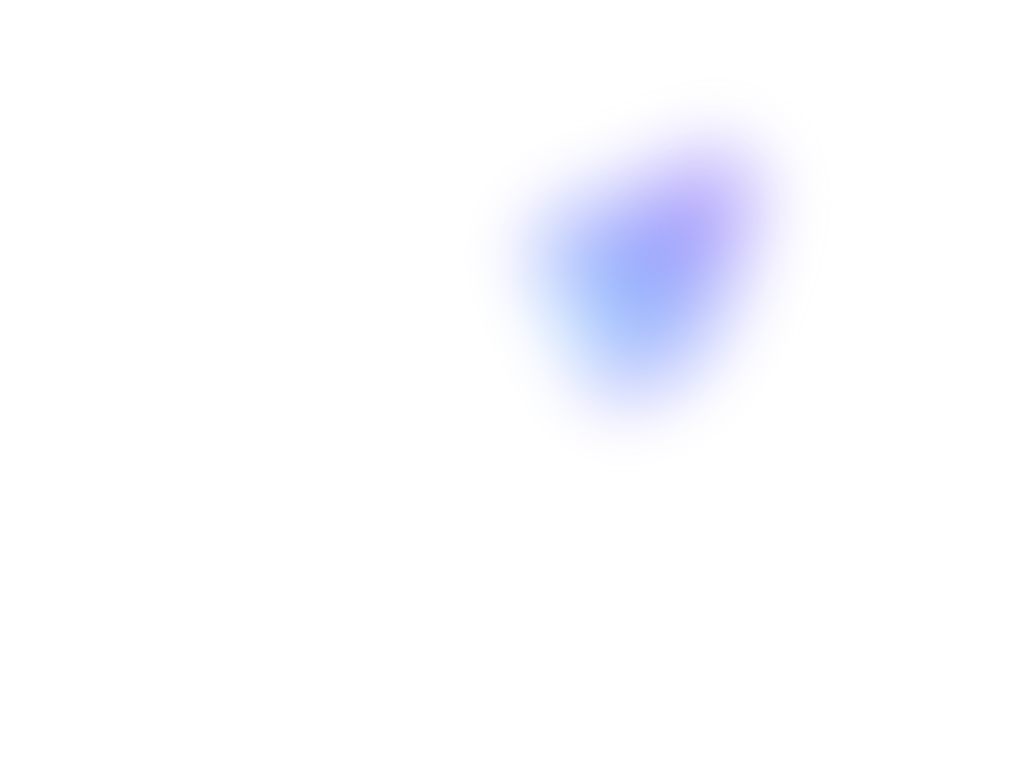
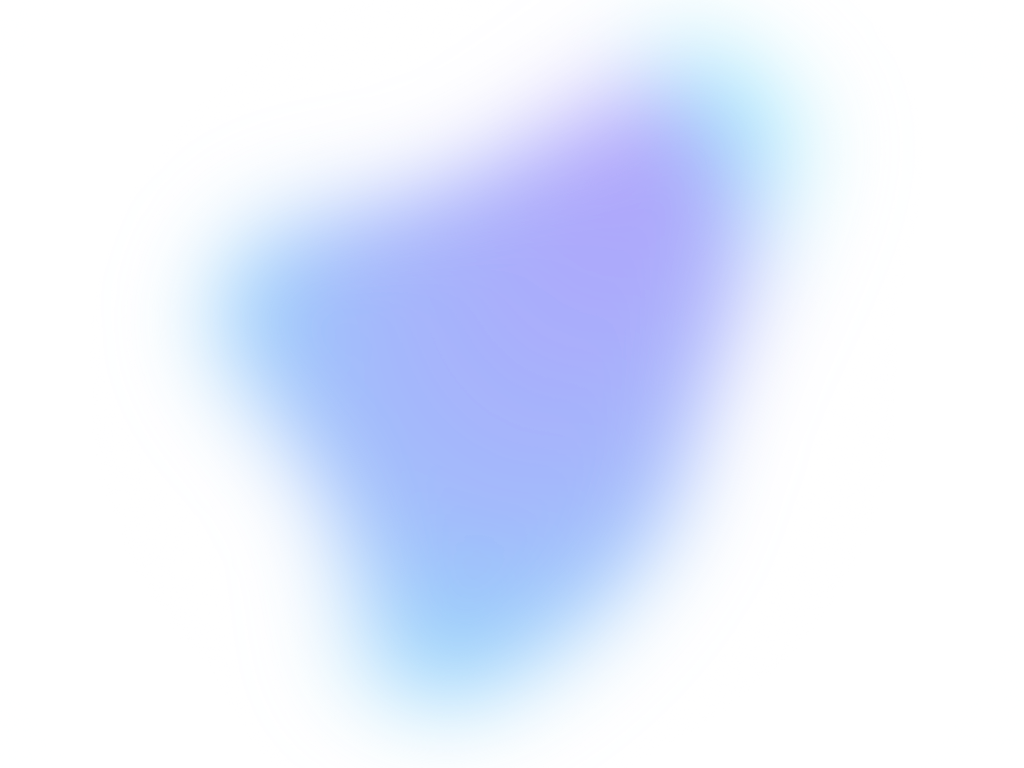
some imprevements

diff --git a/src/components/Index/Pricing.tsx b/src/components/Index/Pricing.tsx
@@ -2,7 +2,7 @@ import React, { Children } from 'react';
 import tw from 'twin.macro';
 import styled from 'styled-components';
 
-const StyledSection = tw.section`md:px-12 lg:px-6 grid grid-cols-1 gap-12 lg:grid-cols-2 xl:grid-cols-3`;
+const StyledSection = tw.section`md:px-12 mt-16 lg:px-6 grid grid-cols-1 gap-12 lg:grid-cols-2 xl:grid-cols-3`;
 const TextContainer = tw.div`flex flex-col gap-6 lg:pt-32`;
 const Title = tw.div`text-3xl text-center xl:text-left`;
 const SubTitle = styled.h3`
@@ -11,15 +11,62 @@ const SubTitle = styled.h3`
 `;
 
 interface IPricingItem {
-  type: 'primary' | 'secondary';
+  variant: 'primary' | 'secondary';
   title: string;
   subtitle: string;
   price: string;
   children: React.ReactNode;
 }
 
+interface IVariant {
+  variant: IPricingItem['variant']
+}
+
+const PricingContainer = styled.div<IVariant>(
+  ({ variant }) => [
+    tw`pt-10 pb-4 border rounded-lg`,
+    variant === 'primary'
+      ? tw`bg-primary`
+      : tw`bg-white`,
+  ]
+);
+const TitleContainer = styled.div<IVariant>(
+  ({ variant }) => [
+    tw`flex justify-center text-center text-2xl mb-6`,
+    variant === 'primary'
+      ? tw`text-white`
+      : tw`text-black`,
+  ]
+);
+const Text = styled.div<IVariant>(
+  ({ variant }) => [
+    tw`flex justify-center text-center`,
+    variant === 'primary'
+      ? tw`text-gray-100`
+      : tw`text-gray-500`,
+  ]
+);
+const Price = styled.span<IVariant>(
+  ({ variant }) => [
+    tw`text-5xl font-bold`,
+    variant === 'primary'
+      ? tw`text-white`
+      : tw`text-black`,
+  ]
+);
+const Button = styled.button<IVariant>(
+  ({ variant }) => [
+    tw`rounded-lg text-lg py-6 px-4 md:px-12 transition hover:-translate-y-1 focus:outline-none focus:ring-4`,
+    variant === 'primary'
+      ? tw`bg-white text-primary`
+      : tw`bg-primary text-white hover:brightness-150`,
+  ]
+);
+const PriceContainer = tw.div`flex justify-center items-end gap-2`;
+const ButtonContainer = tw.div`flex flex-col justify-center px-16 mt-8`;
+
 const PricingItem = ({
-  type,
+  variant,
   title,
   subtitle,
   price,
@@ -27,52 +74,19 @@ const PricingItem = ({
 }: IPricingItem) => {
   const arrayChildren = Children.toArray(children);
 
-  const PricingContainer = styled.div(
-    tw`pt-10 pb-4 border rounded-lg`,
-    type === 'primary'
-      ? tw`bg-primary`
-      : tw`bg-white`
-  );
-  const TitleContainer = styled.div(
-    tw`flex justify-center text-center text-2xl mb-6`,
-    type === 'primary'
-      ? tw`text-white`
-      : tw`text-black`
-  );
-  const Text = styled.div(
-    tw`flex justify-center text-center`,
-    type === 'primary'
-      ? tw`text-gray-100`
-      : tw`text-gray-500`
-  );
-  const PriceContainer = tw.div`flex justify-center items-end gap-2`;
-  const Price = styled.span(
-    tw`text-5xl font-bold`,
-    type === 'primary'
-      ? tw`text-white`
-      : tw`text-black`
-  );
-  const ButtonContainer = tw.div`flex flex-col justify-center px-16 mt-8`;
-  const Button = styled.button(
-    tw`rounded-lg text-lg py-6 px-4 md:px-12 transition hover:-translate-y-1 focus:outline-none focus:ring-4`,
-    type === 'primary'
-      ? tw`bg-white text-primary`
-      : tw`bg-primary text-white hover:brightness-150`
-  );
-
   return (
-    <PricingContainer>
+    <PricingContainer variant={variant}>
       <div className={'flex flex-col gap-6'}>
         <div className={'px-16'}>
-          <TitleContainer>{title}</TitleContainer>
+          <TitleContainer variant={variant}>{title}</TitleContainer>
           <div className={'h-28 lg:h-36 xl:h-20'}>
-            <Text>{subtitle}</Text>
+            <Text variant={variant}>{subtitle}</Text>
           </div>
           <PriceContainer>
-            <Price>
+            <Price variant={variant}>
               {price}zł
             </Price>
-            <Text>/Miesięcznie</Text>
+            <Text variant={variant}>/Miesięcznie</Text>
           </PriceContainer>
         </div>
 
@@ -82,7 +96,7 @@ const PricingItem = ({
           {Children.map(arrayChildren, (child, index) => {
             return (
               <div className={'px-16 my-6 lg:my-4'}>
-                <Text key={index}>
+                <Text variant={variant} key={index}>
                   {child}
                 </Text>
               </div>
@@ -92,7 +106,7 @@ const PricingItem = ({
       </div>
 
       <ButtonContainer>
-        <Button>
+        <Button variant={variant}>
           Zarejestruj się za darmo
         </Button>
       </ButtonContainer>
@@ -114,7 +128,7 @@ const Pricing = () => {
       </TextContainer>
 
       <PricingItem
-        type={'secondary'}
+        variant={'secondary'}
         title={'Plan Basic'}
         subtitle={'Dla mniejszych przedsiębiorstw'}
         price={'199'}
@@ -125,7 +139,7 @@ const Pricing = () => {
         <p>1 godzina wsparcia eksperta w budowaniu strategii marketingowej</p>
       </PricingItem>
       <PricingItem
-        type={'primary'}
+        variant={'primary'}
         title={'Plan Premium'}
         subtitle={'Dla szybko rozwijających się i średnich przedsiębiorstw'}
         price={'399'}

diff --git a/src/components/Index/Statistics.tsx b/src/components/Index/Statistics.tsx
@@ -1,8 +1,10 @@
 import tw from 'twin.macro';
 import styled from 'styled-components';
+import Image from 'next/image';
 
 import { SubTitleLeftShadow } from './styled';
 import { StyledCtaButton } from 'components/Common/styled';
+import { STATIC } from 'constants/index';
 
 const StyledSection = tw.section`px-12 lg:px-36 grid grid-cols-1 md:grid-cols-2 gap-10 xl:gap-36 relative`;
 const StatsContainer = tw.div`flex flex-col gap-0.5 relative`;
@@ -23,37 +25,37 @@ const Statistics = () => {
         <StatsContainer>
           <StatsItem className={'rounded-t-lg'}>
             <TitleLeft>
-            10,5 mld zł
+              10,5 mld zł
             </TitleLeft>
             <SubTitleLeftShadow>
-            wartość rynku reklamowego w Polsce w 2021 roku.
+              wartość rynku reklamowego w Polsce w 2021 roku.
             </SubTitleLeftShadow>
           </StatsItem>
           <StatsItem>
             <TitleLeft>
-            803,6 mln zł
+              803,6 mln zł
             </TitleLeft>
             <SubTitleLeftShadow>
-            o tyle wzrosły wydatki na reklamę w Internecie w 2021 r.
+              o tyle wzrosły wydatki na reklamę w Internecie w 2021 r.
             </SubTitleLeftShadow>
           </StatsItem>
           <StatsItem className={'rounded-b-lg'}>
             <TitleLeft>
-            16%
+              16%
             </TitleLeft>
             <SubTitleLeftShadow>
-            o tyle wzrosła wartość rynku reklamowego w Polsce w ciągu 10 lat.
+              o tyle wzrosła wartość rynku reklamowego w Polsce w ciągu 10 lat.
             </SubTitleLeftShadow>
           </StatsItem>
         </StatsContainer>
-        {/*<Image*/}
-        {/*  fill*/}
-        {/*  priority*/}
-        {/*  src={`${STATIC.STAIN_2}`}*/}
-        {/*  alt="stain"*/}
-        {/*  className={'absolute !top-16 z-0'}*/}
-        {/*  style={{ objectFit: 'cover', transform: 'scale(3)' }}*/}
-        {/*/>*/}
+        <div className={'absolute h-full w-full left-0 top-0'}>
+          <Image
+            fill
+            src={`${STATIC.STAIN_2}`}
+            alt="stain"
+            style={{ objectFit: 'contain' }}
+          />
+        </div>
       </div>
 
       <TextContainer>

diff --git a/src/components/Index/Top/TopText.tsx b/src/components/Index/Top/TopText.tsx
@@ -1,0 +1,43 @@
+import { AiFillCheckCircle } from 'react-icons/ai';
+
+import { SubTitleLeftShadow, TitleLeft } from 'components/Index/styled';
+import { twConfig } from 'helpers/tailwind';
+import { SearchInput } from 'components/Common/styled';
+
+const TopText = () => {
+  return (
+    <div className="flex flex-col justify-center gap-10 md:min-h-[40rem]">
+      <TitleLeft>
+          Zatrudnij specjalistów marketingu, bez ryzyka
+      </TitleLeft>
+      <SubTitleLeftShadow>
+          Adsbridge.pl pomoże Ci znaleźć, zatrudnić i zarządzać zweryfikowanymi
+          specjalistami ds. marketingu i reklamy
+      </SubTitleLeftShadow>
+
+      <SearchInput
+        label={'ZNAJDŹ SPECJALISTĘ'}
+        placeholder={'Wyszukaj Specjalista Facebook Ads etc.'}
+      />
+
+      <div className="flex gap-3 text-xs">
+        <span className="flex items-center gap-1">
+          <AiFillCheckCircle
+            size={20}
+            color={twConfig?.theme?.colors?.secondary as string}
+          />
+            Nie znajdziesz kandydata? Nie płacisz.
+        </span>
+        <span className="flex items-center gap-1">
+          <AiFillCheckCircle
+            size={20}
+            color={twConfig?.theme?.colors?.secondary as string}
+          />
+            60 dniowa gwarancja
+        </span>
+      </div>
+    </div>
+  );
+};
+
+export default TopText;

diff --git a/src/pages/index.tsx b/src/pages/index.tsx
@@ -1,3 +1,4 @@
+import React from 'react';
 import type { Variants } from 'framer-motion';
 import { motion } from 'framer-motion';
 import tw from 'twin.macro';
@@ -7,8 +8,8 @@ import type { NextPage } from 'next';
 import Layout from 'components/Common/Layout';
 import Footer from 'components/Common/Footer';
 import Top from 'components/Index/Top';
-import HowItWorks from 'components/Index/HowItWorks';
 import Statistics from 'components/Index/Statistics';
+import HowItWorks from 'components/Index/HowItWorks';
 import Video from 'components/Index/Video';
 import ExpertSocialMedia from 'components/Index/ExpertSocialMedia';
 import Pricing from 'components/Index/Pricing';
@@ -38,14 +39,7 @@ export const Motion = ({ children }: { children: React.ReactNode }) => (
   </motion.div>
 );
 
-export const Main = tw.main`
-  min-h-screen
-  p-8
-  flex
-  flex-col
-  gap-36
-  md:gap-24
-`;
+export const Main = tw.main`min-h-screen p-8 flex flex-col`;
 
 const HomePage: NextPage = () => {
   return (

diff --git a/src/components/Index/Video.tsx b/src/components/Index/Video.tsx
@@ -4,7 +4,7 @@ import { STATIC } from 'constants/index';
 import styled from 'styled-components';
 import { StyledCtaButton } from '../Common/styled';
 
-const StyledSection = tw.section`md:px-6 grid grid-cols-1 xl:grid-cols-2 gap-10`;
+const StyledSection = tw.section`md:px-6 mt-16 grid grid-cols-1 xl:grid-cols-2 gap-10`;
 const TextContainer = tw.div`flex flex-col text-center justify-center gap-6`;
 const Title = tw.h1`text-5xl tracking-tight xl:text-left text-gray-900 text-center`;
 
@@ -37,6 +37,8 @@ const Video = () => {
         <StyledVideo
           title="how we verify"
           loop
+          // @ts-ignore
+          playsinline
           autoPlay
           muted
         >

diff --git a/src/components/Index/Top/TopImage.tsx b/src/components/Index/Top/TopImage.tsx
@@ -1,0 +1,26 @@
+import Image from 'next/image';
+
+import { STATIC } from 'constants/index';
+
+const TopImage = () => {
+  return (
+    <div className='flex justify-center relative h-96 md:h-auto'>
+      <Image
+        fill
+        priority
+        src={`${STATIC.STAIN_1}`}
+        alt="stain"
+        style={{ objectFit: 'contain' }}
+      />
+      <Image
+        fill
+        priority
+        src={`${STATIC.ROB_KATARZYNA}`}
+        alt="how it works"
+        style={{ objectFit: 'contain' }}
+      />
+    </div>
+  );
+};
+
+export default TopImage;

diff --git a/src/components/Index/ExpertSocialMedia.tsx b/src/components/Index/ExpertSocialMedia.tsx
@@ -6,7 +6,7 @@ import { STATIC } from 'constants/index';
 import { twConfig } from 'helpers/tailwind';
 import useWindowDimension from 'hooks/useWindowDimension';
 
-const StyledSection = tw.section`md:px-24 flex flex-col gap-8`;
+const StyledSection = tw.section`md:px-24 mt-16 flex flex-col gap-8`;
 const SocialMediaContainer = tw.div`grid grid-cols-2 md:grid-cols-12 gap-6 rounded-sm border-2 shadow-xl px-16 py-8`;
 const ImageContainer = tw.div`flex flex-col items-center md:col-span-4`;
 const ImageLabel = tw.div`text-center text-lg lg:text-2xl`;

diff --git a/src/components/Index/HowItWorks.tsx b/src/components/Index/HowItWorks.tsx
@@ -8,7 +8,7 @@ import {
 import { twConfig } from 'helpers/tailwind';
 import { SubTitle, Title } from './styled';
 
-const StyledSection = tw.section`px-6 md:px-24 flex flex-col gap-8`;
+const StyledSection = tw.section`px-6 mt-16 md:px-24 flex flex-col gap-8`;
 const StyledStepsContainer = tw.div`grid grid-cols-1 md:grid-cols-3 gap-10 sm:gap-6 text-center`;
 const StyledStep = tw.div`flex flex-col gap-2`;
 const StyledIconContainer = tw.div`flex justify-center`;

diff --git a/src/components/Index/Top/index.tsx b/src/components/Index/Top/index.tsx
@@ -1,0 +1,17 @@
+import tw from 'twin.macro';
+
+import TopImage from './TopImage';
+import TopText from './TopText';
+
+const StyledSection = tw.section`px-10 grid grid-cols-1 md:grid-cols-2 gap-4 md:gap-24 md:pt-8`;
+
+const Top = () => {
+  return (
+    <StyledSection id={'top'}>
+      <TopText />
+      <TopImage />
+    </StyledSection>
+  );
+};
+
+export default Top;
